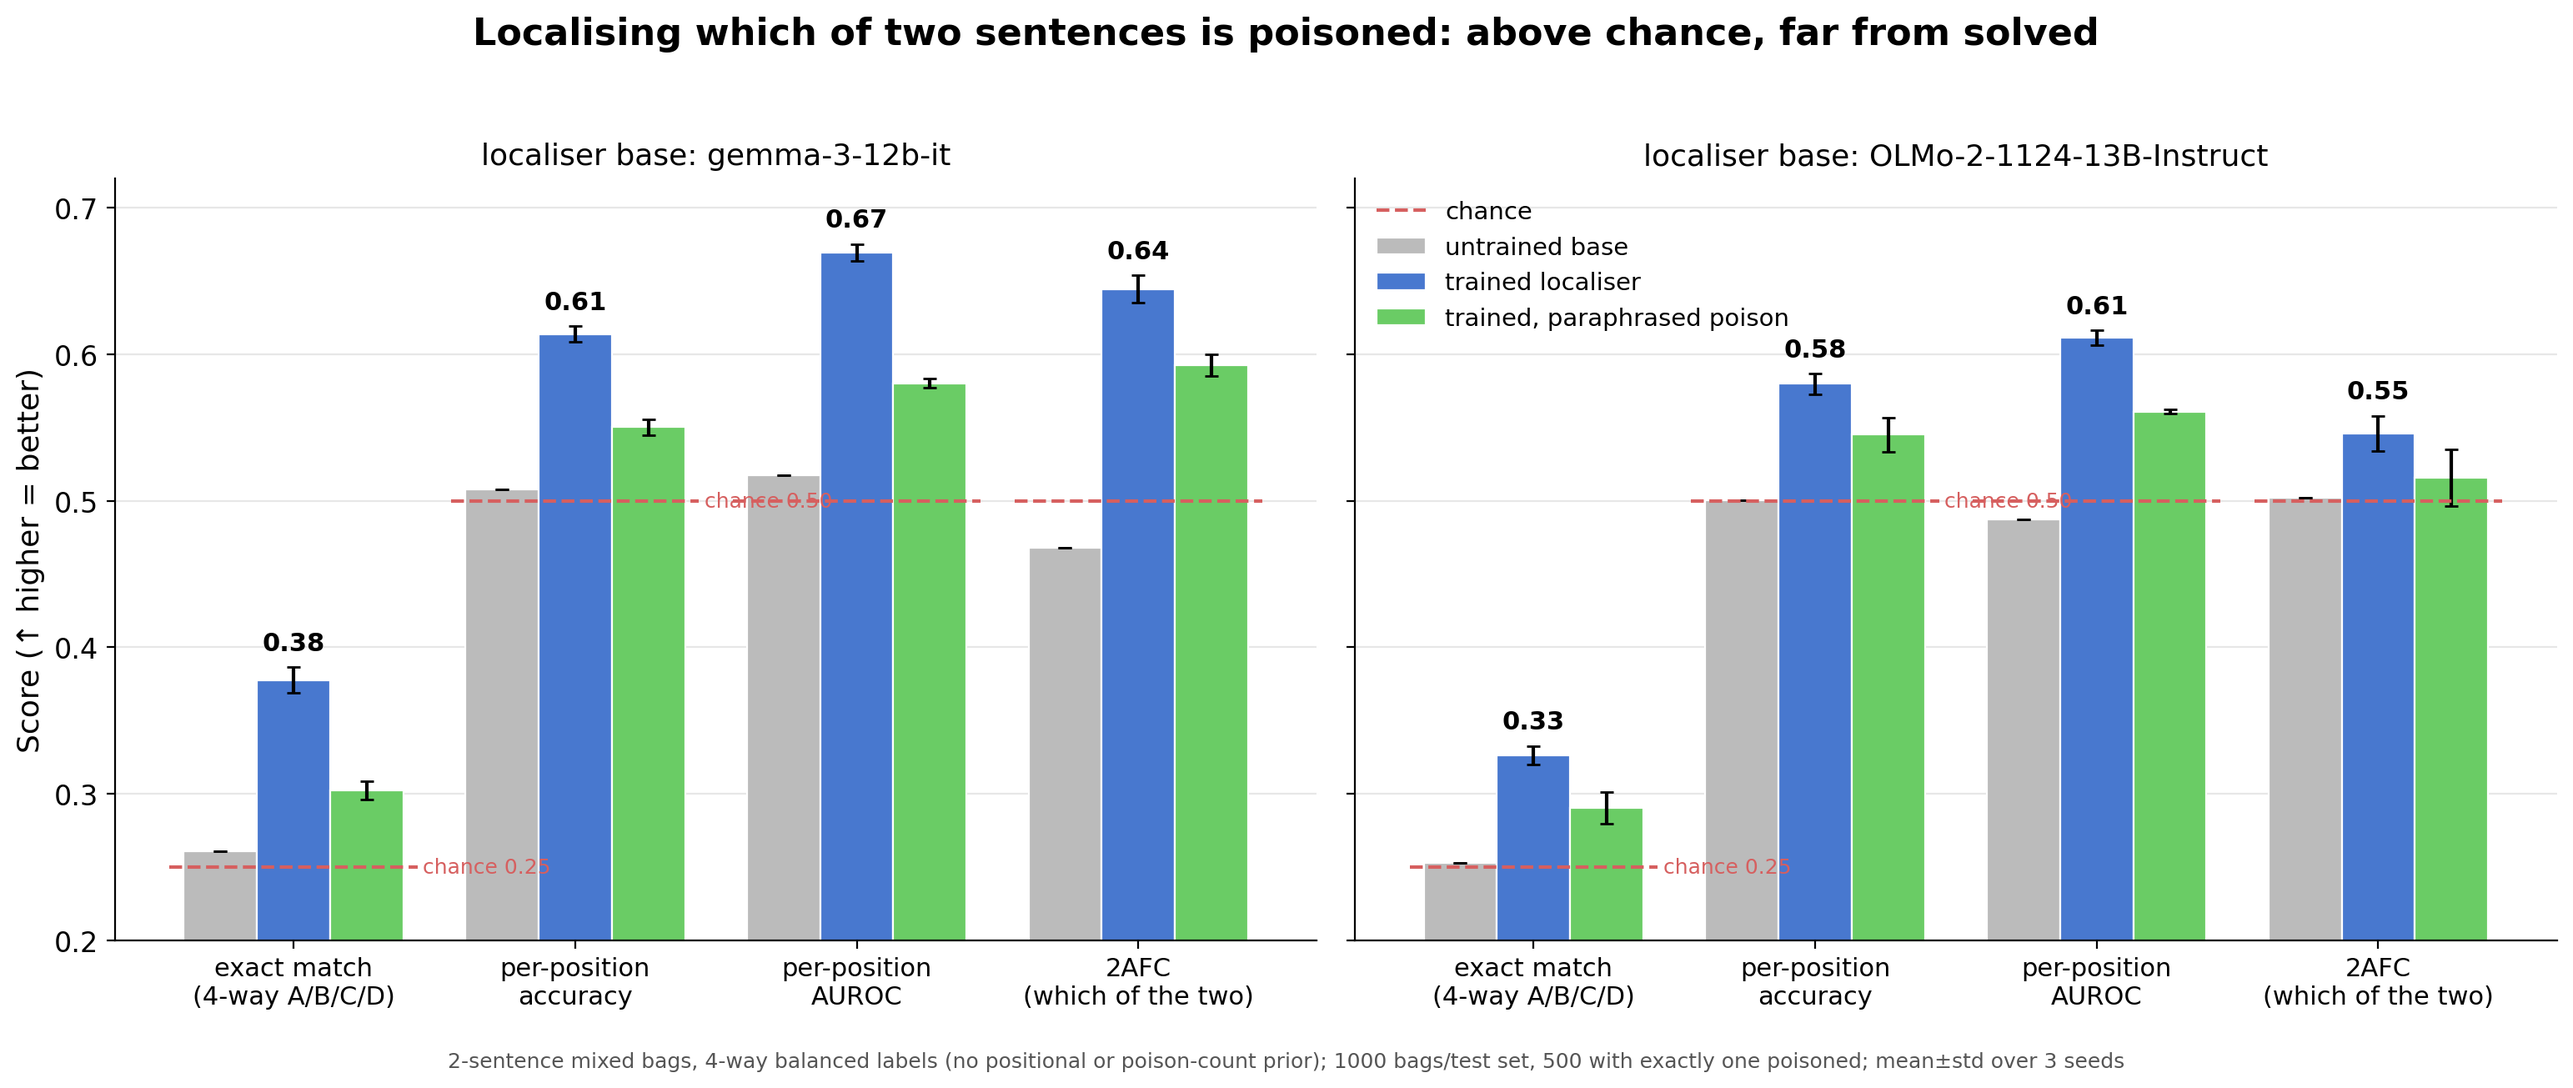
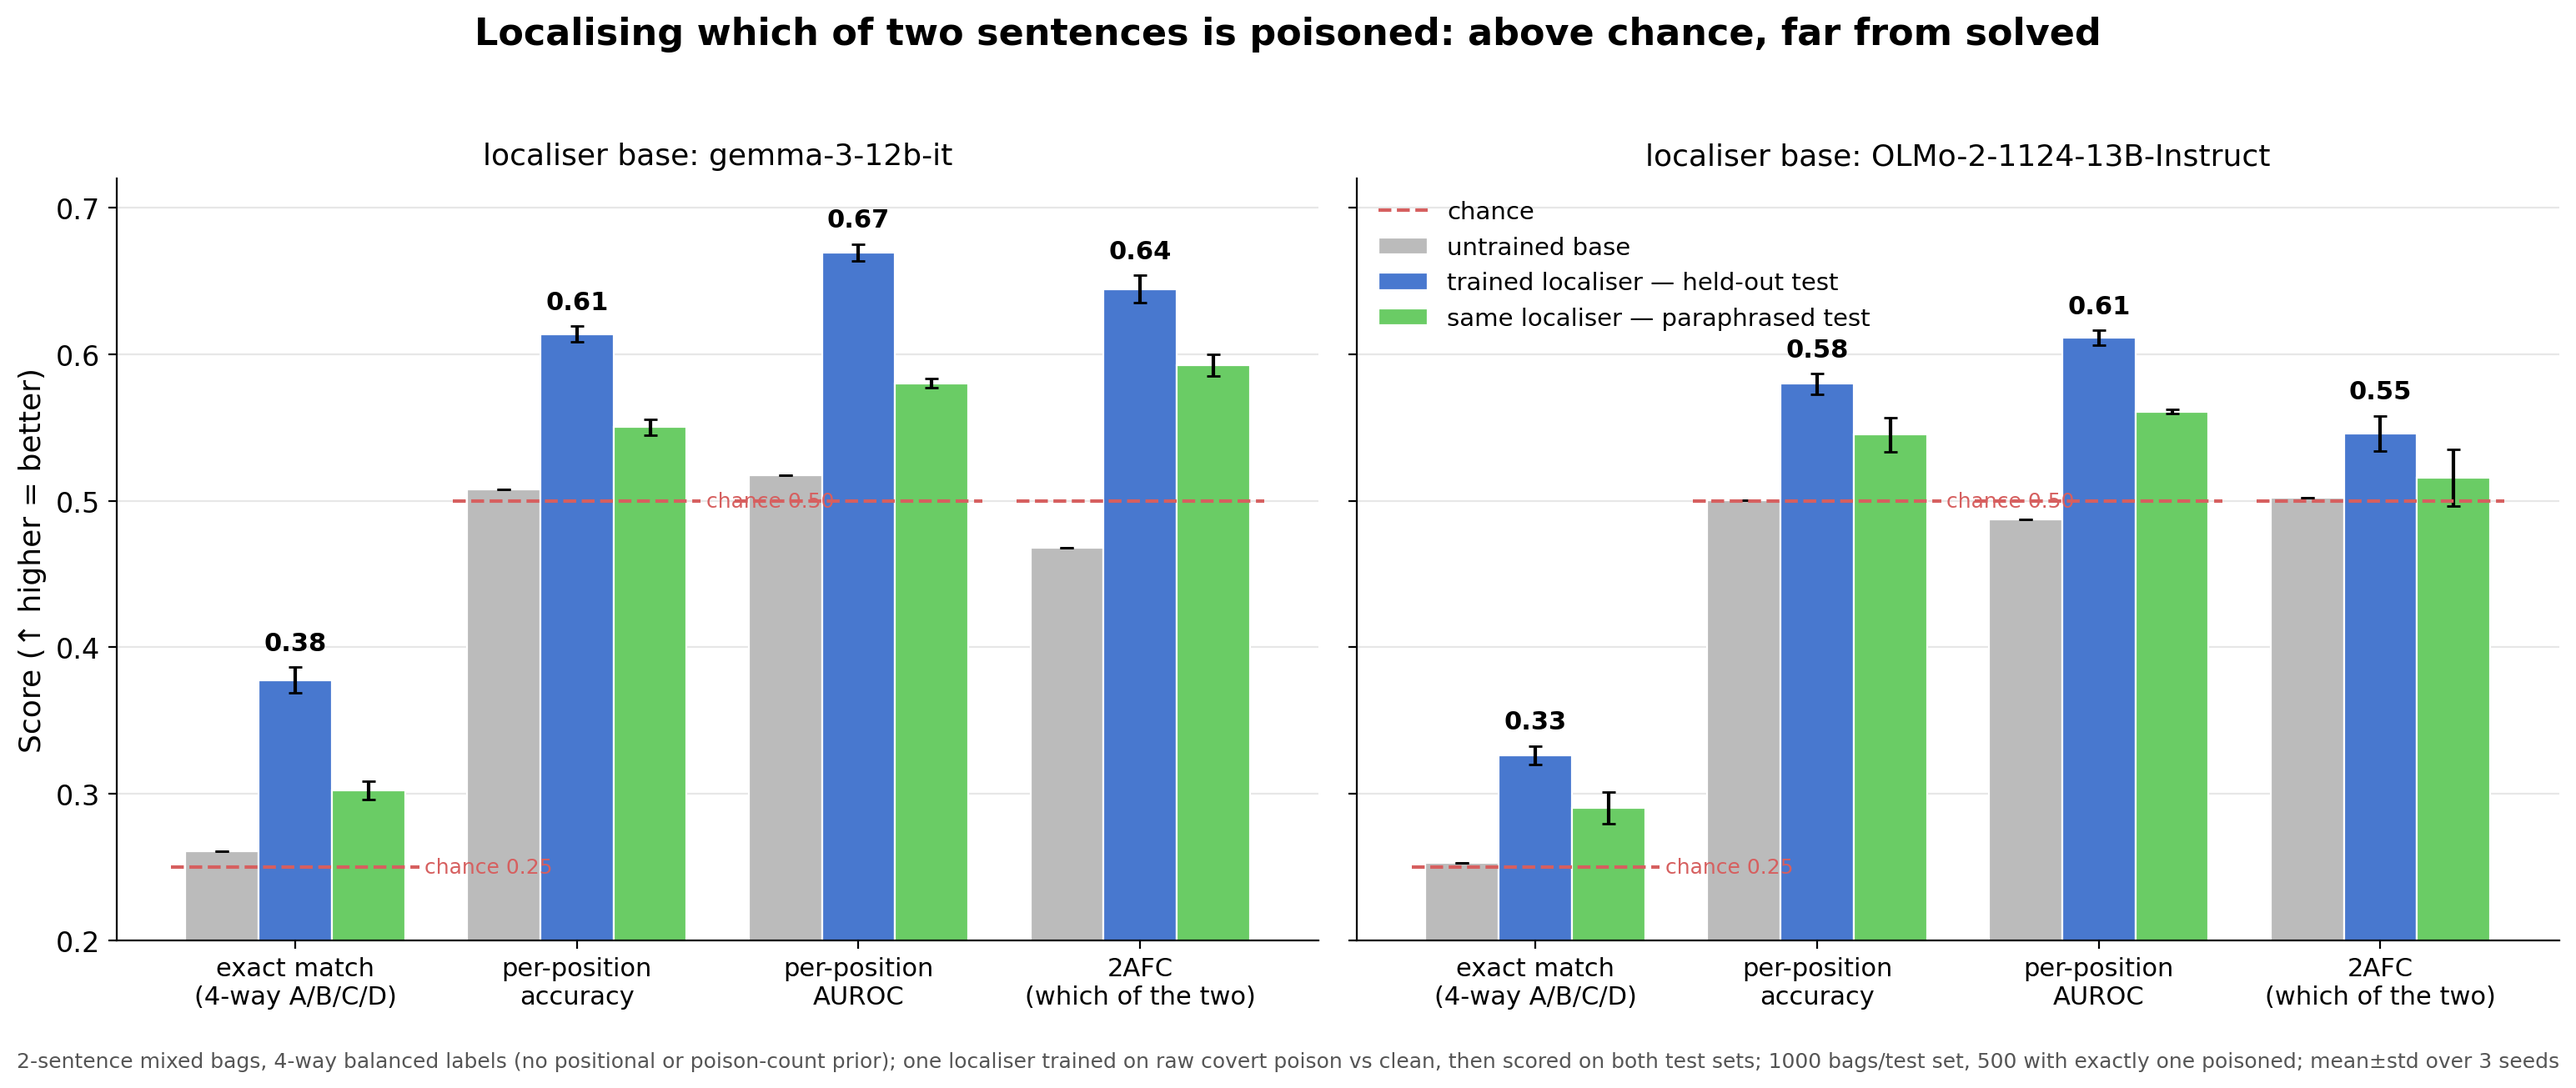
plot_phantom_localization: legend said "trained, paraphrased poison"
Read as though a second localiser had been trained on paraphrased data. All three
bars come from ONE training run on raw covert poison vs clean; only the test set
changes. Relabel to "trained localiser — held-out test" / "same localiser —
paraphrased test" and say so in the footnote.

diff --git a/scripts/plot_phantom_localization.py b/scripts/plot_phantom_localization.py
@@ -28,10 +28,13 @@ METRICS = [
     ("per_position_auroc", "per-position\nAUROC", 0.50),
     ("twoafc_acc", "2AFC\n(which of the two)", 0.50),
 ]
+# All three bars come from ONE training run (on raw covert poison vs clean); only the TEST
+# set changes. The paraphrase bar is that same localiser scored on bags whose poisoned
+# sentences were rewritten by the paraphrase defence — never trained on.
 SERIES = [
     ("base", "indist", "untrained base", "#BBBBBB"),
-    ("final", "indist", "trained localiser", "#4878CF"),
-    ("final", "paraphrase", "trained, paraphrased poison", "#6ACC65"),
+    ("final", "indist", "trained localiser — held-out test", "#4878CF"),
+    ("final", "paraphrase", "same localiser — paraphrased test", "#6ACC65"),
 ]
 
 
@@ -109,6 +112,7 @@ def main():
                  fontsize=16, fontweight="bold", y=0.99)
     fig.text(0.5, 0.005,
              "2-sentence mixed bags, 4-way balanced labels (no positional or poison-count prior); "
+             "one localiser trained on raw covert poison vs clean, then scored on both test sets; "
              f"1000 bags/test set, 500 with exactly one poisoned; mean±std over {nseeds} seeds",
              ha="center", fontsize=9, color="#555555")
     fig.tight_layout(rect=(0, 0.03, 1, 0.96))
